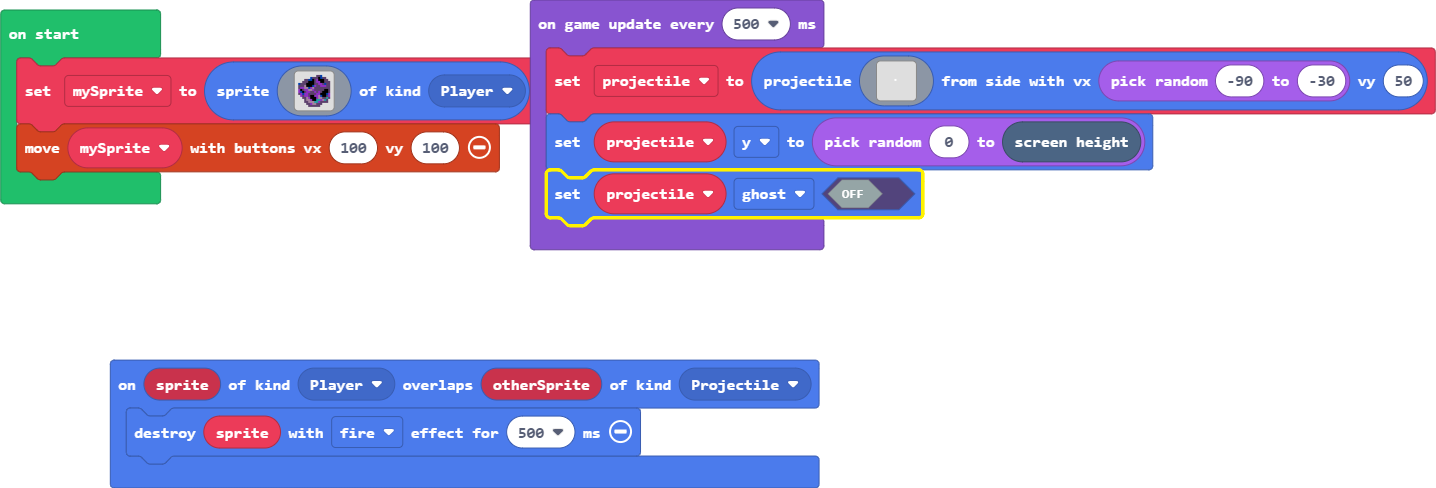
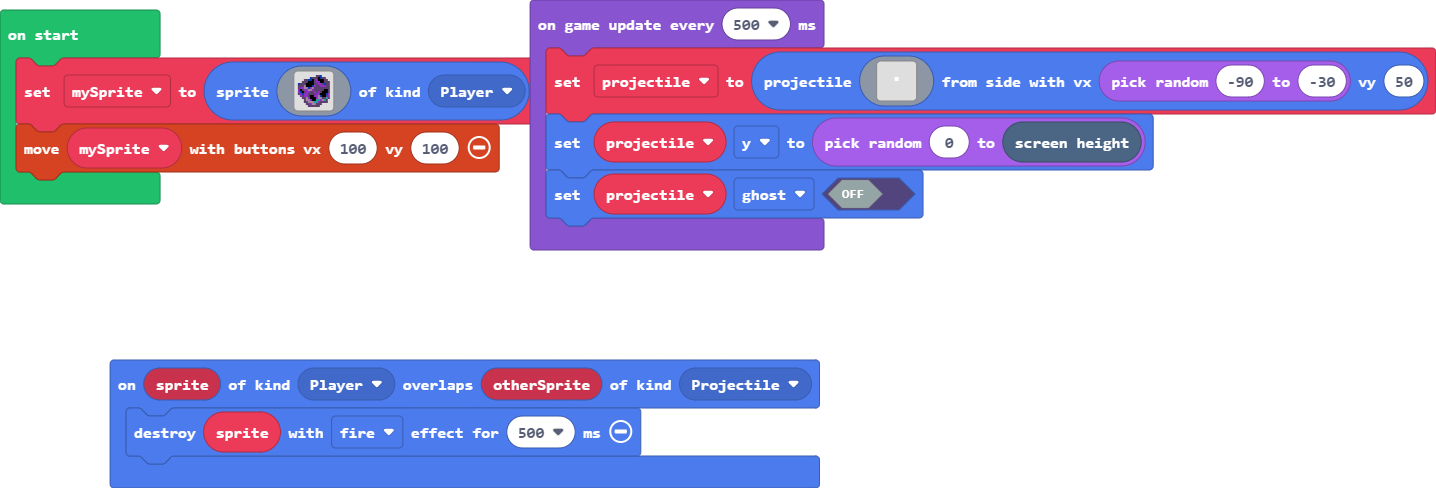
Update main.blocks, main.ts

diff --git a/main.ts b/main.ts
@@ -29,8 +29,8 @@ game.onUpdateInterval(500, function () {
         . . . . . . . . . . . . . . . . 
         . . . . . . . . . . . . . . . . 
         . . . . . . . . . . . . . . . . 
-        . . . . . . . . . . . . . . . . 
-        . . . . . . . 1 . . . . . . . . 
+        . . . . . . . 1 1 . . . . . . . 
+        . . . . . . . 1 1 . . . . . . . 
         . . . . . . . . . . . . . . . . 
         . . . . . . . . . . . . . . . . 
         . . . . . . . . . . . . . . . . 
